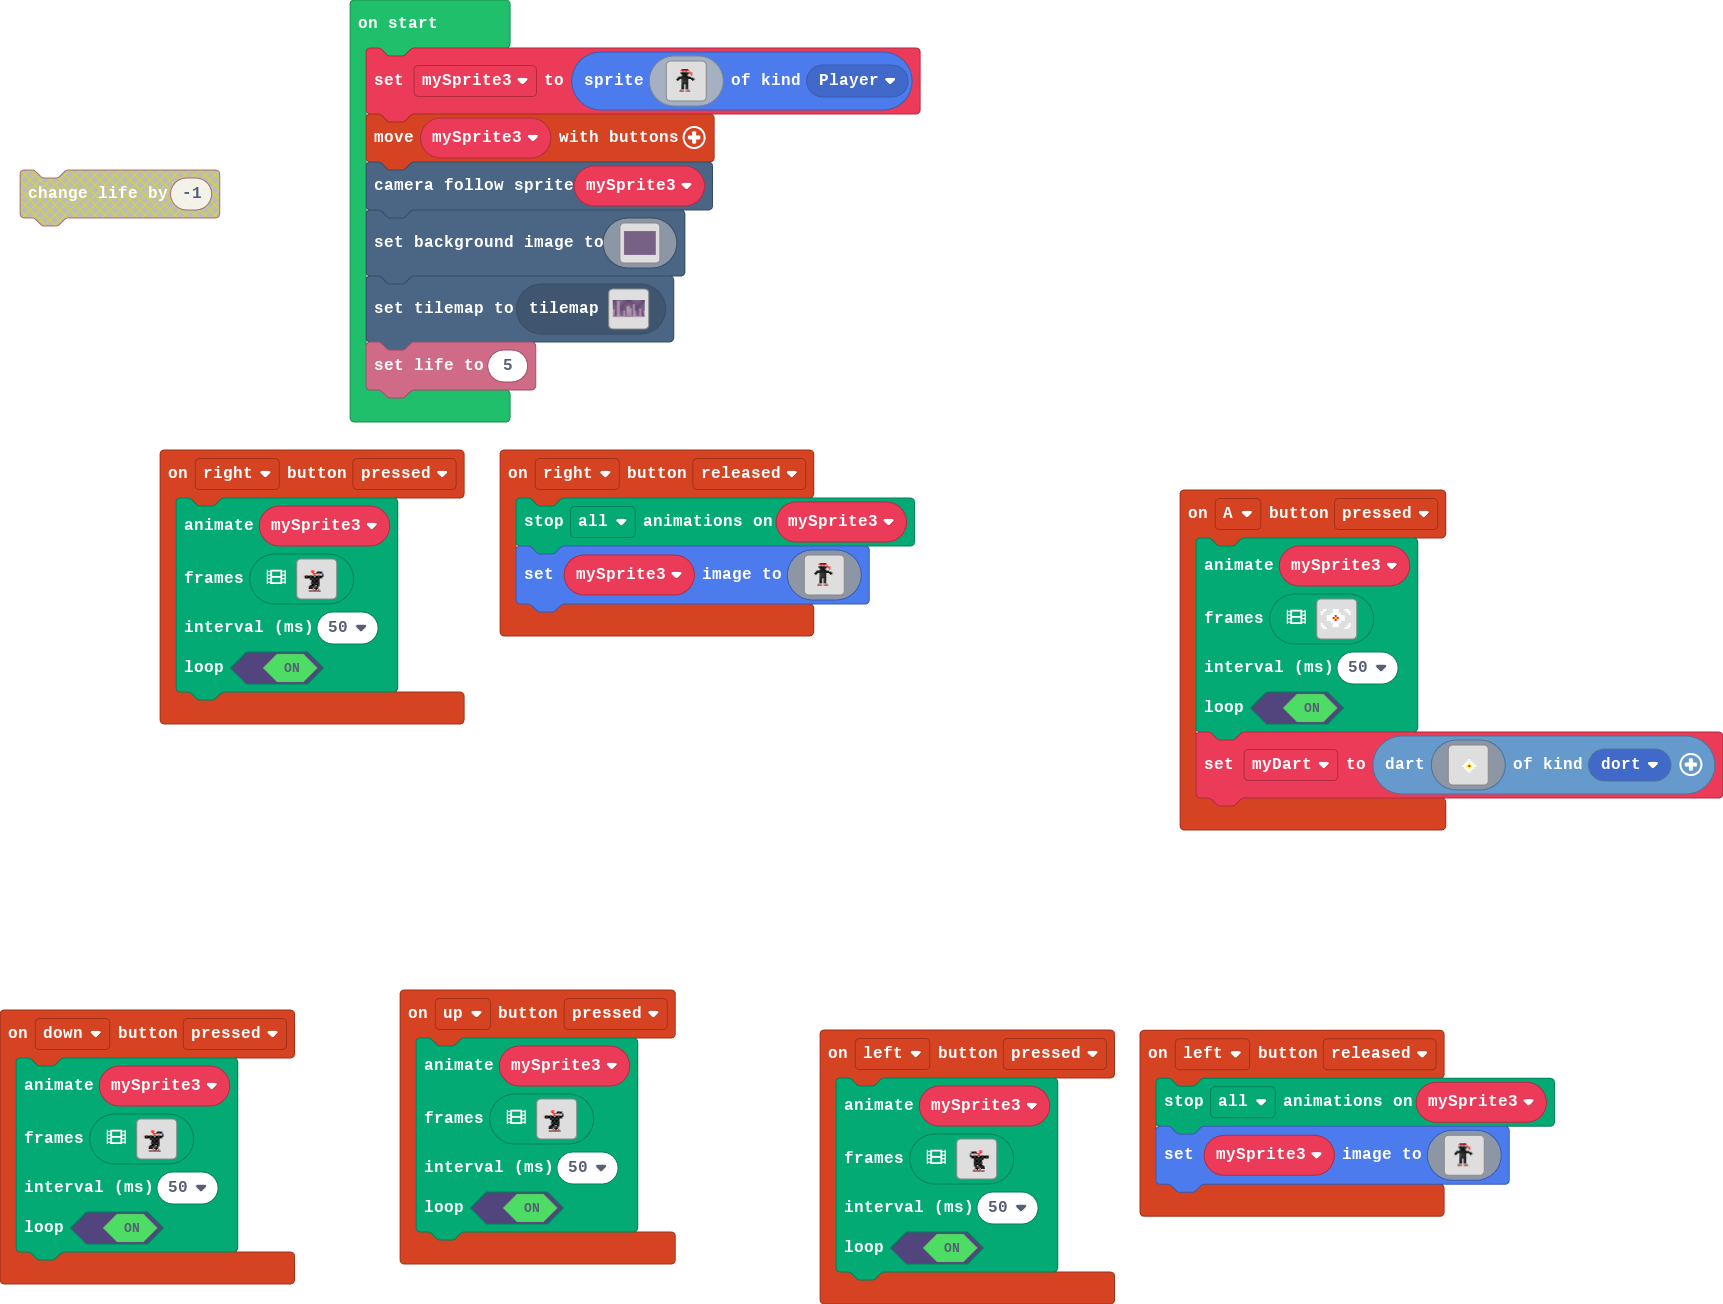
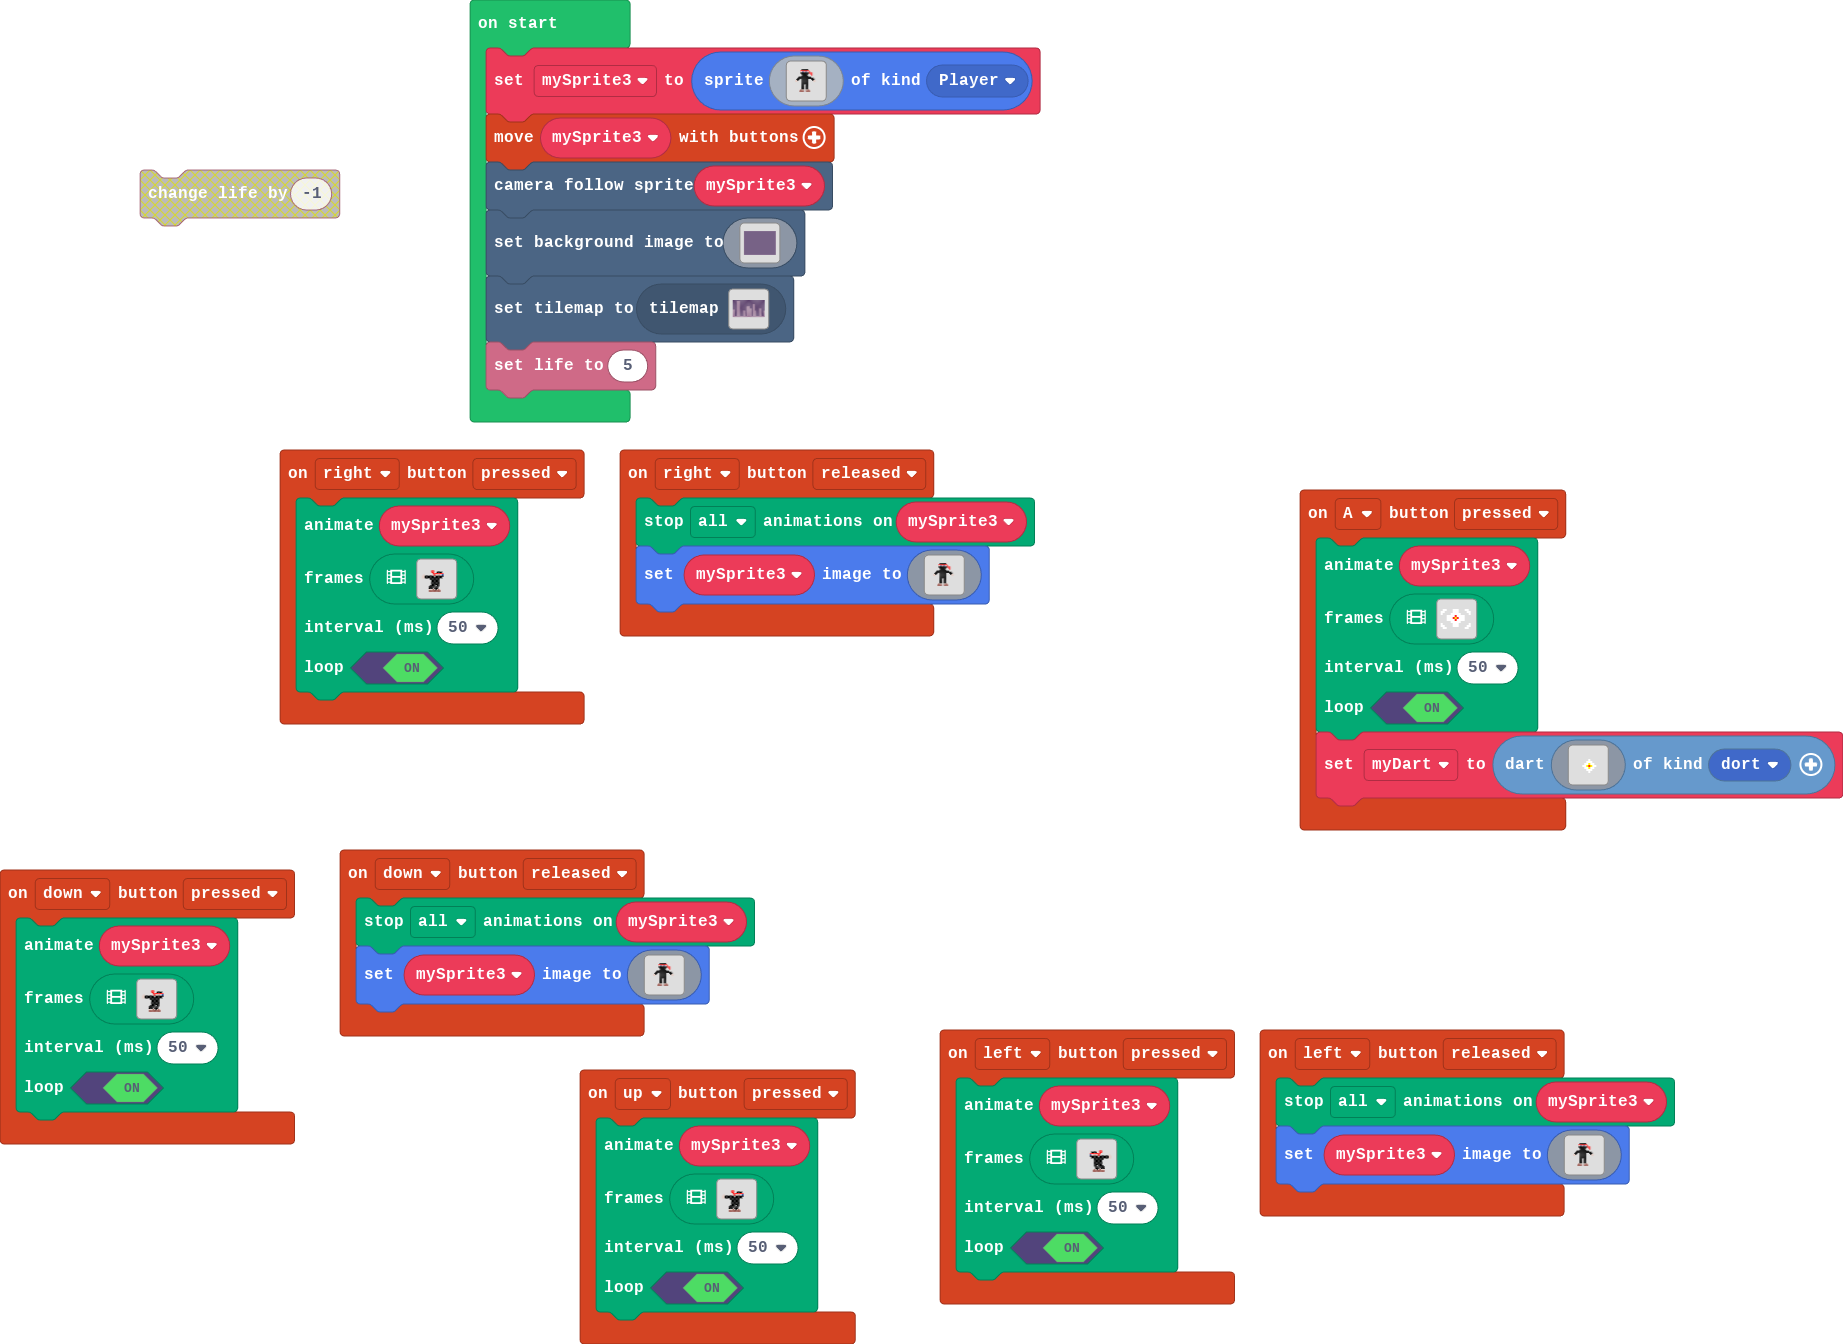
fixed down button

diff --git a/main.ts b/main.ts
@@ -195,6 +195,41 @@ controller.A.onEvent(ControllerButtonEvent.Pressed, function () {
         . . . . . . . . . . . . . . . . 
         `, SpriteKind.dort)
 })
+controller.down.onEvent(ControllerButtonEvent.Released, function () {
+    animation.stopAnimation(animation.AnimationTypes.All, mySprite3)
+    mySprite3.setImage(img`
+        ....................
+        ....................
+        ....................
+        ....................
+        ......ffffff........
+        .....22222222.......
+        .....d18dd81d2......
+        .....ffffffff222....
+        ......ffffff..22....
+        .......ffff....2....
+        ......ffffff........
+        ...ffffffffffff.....
+        ..fffffffffffffff...
+        .fff..ffffff...fff..
+        ddf...ffffff....fdd.
+        dd....ffffff.....dd.
+        ......ffffff........
+        ......ffffff........
+        ......ff..ff........
+        ......ff..ff........
+        ......ff..ff........
+        ......ff..ff........
+        ......ff..ff........
+        ....dedd..dded......
+        ....eeee..eeee......
+        ....................
+        ....................
+        ....................
+        ....................
+        ....................
+        `)
+})
 controller.left.onEvent(ControllerButtonEvent.Pressed, function () {
     animation.runImageAnimation(
     mySprite3,
